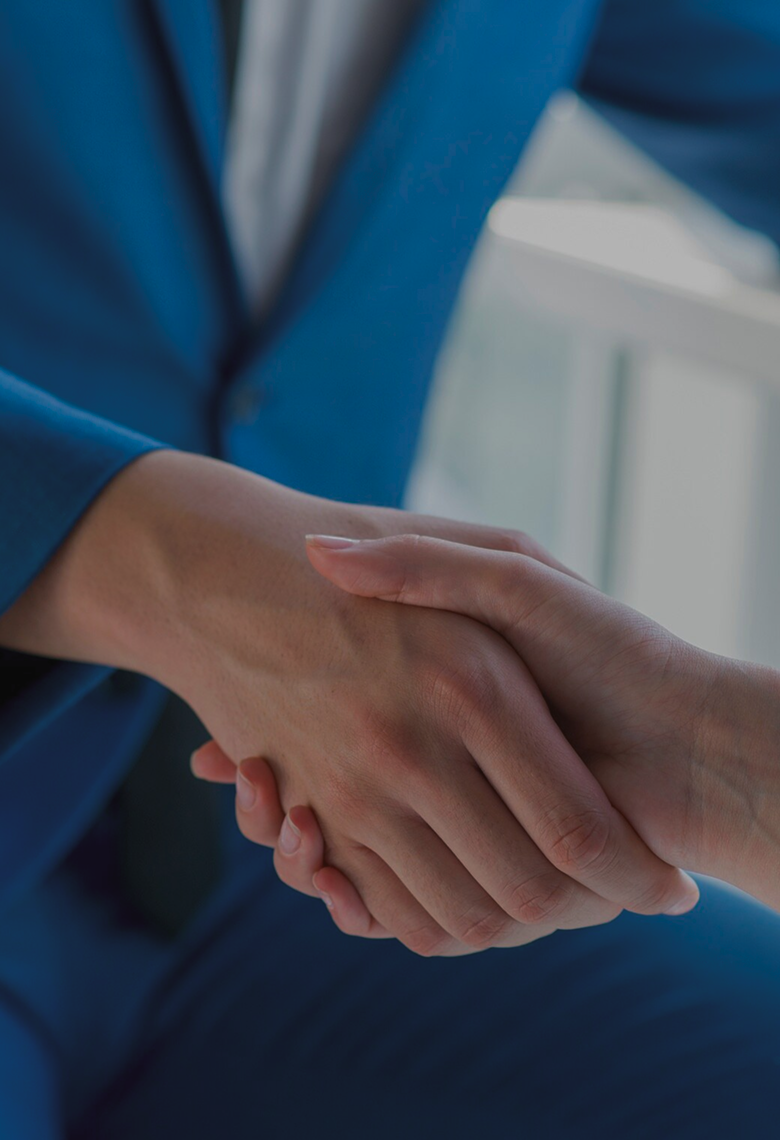
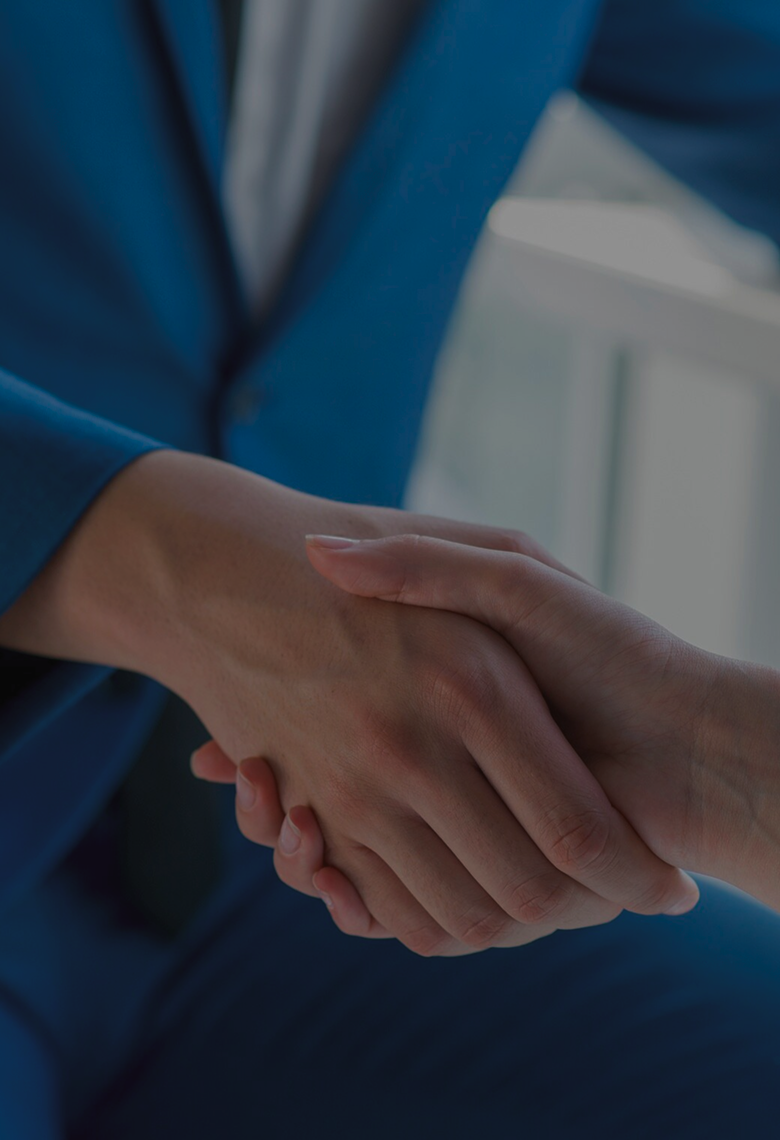
Updates

diff --git a/css/style.css b/css/style.css
@@ -2230,7 +2230,7 @@ html.lenis body {
       -ms-flex-direction: column;
           flex-direction: column;
   gap: 3rem;
-  background-color: var(--primary-bg);
+  background-color: var(--white);
   padding: 2.5rem 7rem 4rem 7rem;
   max-width: 67rem;
   width: 100%;
@@ -4344,6 +4344,9 @@ html.lenis body {
   height: 27.5rem;
   color: var(--white);
   z-index: 1;
+  -webkit-transition: all 0.3s ease;
+  -o-transition: all 0.3s ease;
+  transition: all 0.3s ease;
 }
 .about__presentation p {
   font-weight: 700;
@@ -4368,6 +4371,9 @@ html.lenis body {
   height: 1.3rem;
   -o-object-fit: contain;
      object-fit: contain;
+}
+.about__presentation:hover {
+  background-color: var(--primary-color);
 }
 .about__content {
   display: -webkit-box;
@@ -4408,6 +4414,11 @@ html.lenis body {
   -webkit-transform: translate(-50%, -50%);
       -ms-transform: translate(-50%, -50%);
           transform: translate(-50%, -50%);
+}
+.video__link:hover .video__link-icon i {
+  -webkit-transform: scale(1.3);
+      -ms-transform: scale(1.3);
+          transform: scale(1.3);
 }
 .video__link:hover .video__link-text {
   -webkit-text-decoration-line: underline;
@@ -6710,9 +6721,11 @@ html.lenis body {
     height: 4rem;
     -ms-flex-negative: 0;
         flex-shrink: 0;
+    background-color: var(--primary-red);
   }
   .video__link-icon i {
     font-size: 1rem;
+    color: var(--white);
   }
   .video__link-text {
     font-size: 1.2rem;
@@ -8013,8 +8026,25 @@ html.lenis body {
     left: unset;
     bottom: 2rem;
   }
+  .values__slider-img {
+    z-index: 1;
+  }
+  .values__slider-item::before {
+    content: "";
+    position: absolute;
+    top: 0;
+    bottom: 0;
+    left: 0;
+    right: 0;
+    z-index: 2;
+    background: -webkit-gradient(linear, left top, left bottom, from(rgba(0, 0, 0, 0)), to(#000000));
+    background: -o-linear-gradient(top, rgba(0, 0, 0, 0) 0%, #000000 100%);
+    background: linear-gradient(180deg, rgba(0, 0, 0, 0) 0%, #000000 100%);
+    opacity: 0.61;
+  }
   .values__slider-item span {
     display: block;
+    z-index: 3;
   }
   .mission {
     padding-top: 2rem;

diff --git a/vacancy.html b/vacancy.html
@@ -1036,6 +1036,39 @@
         </div>
       </div>
     </section>
+    <section class="callback">
+      <div class="container">
+        <div class="callback__inner">
+          <form class="callback__form" action="#" method="get">
+            <h2 class="block-title">
+              Свяжитесь с нами
+            </h2>
+            <div class="form-group">
+              <i class="icon-person"></i>
+              <input class="form-input" name="names" type="text" placeholder="Ваше имя">
+            </div>
+            <div class="form-group">
+              <i class="icon-mail"></i>
+              <input class="form-input" name="mail" type="email" placeholder="Эл. почта">
+            </div>
+            <div class="form-group form-group--last">
+              <i class="icon-person"></i>
+              <input class="form-input" name="company-name" type="text" placeholder="Название компании">
+            </div>
+            <button class="callback__btn btn btn-yellow">
+              Отправить
+            </button>
+            <p>
+              Нажимая кнопку «Отправить», я согласен с&nbsp;<a href="/mkch/policy.html">обработкой персональных данных</a> и
+              с&nbsp;<a href="/mkch/agreement.html">пользовательским соглашением</a>
+            </p>
+          </form>
+          <div class="callback__wrap" data-animation="parallax-img">
+            <img class="callback__img" src="./images/main/contact.png" alt="">
+          </div>
+        </div>
+      </div>
+    </section>
   </main>
   <!-- Подвал сайта -->
   <footer class="footer">
